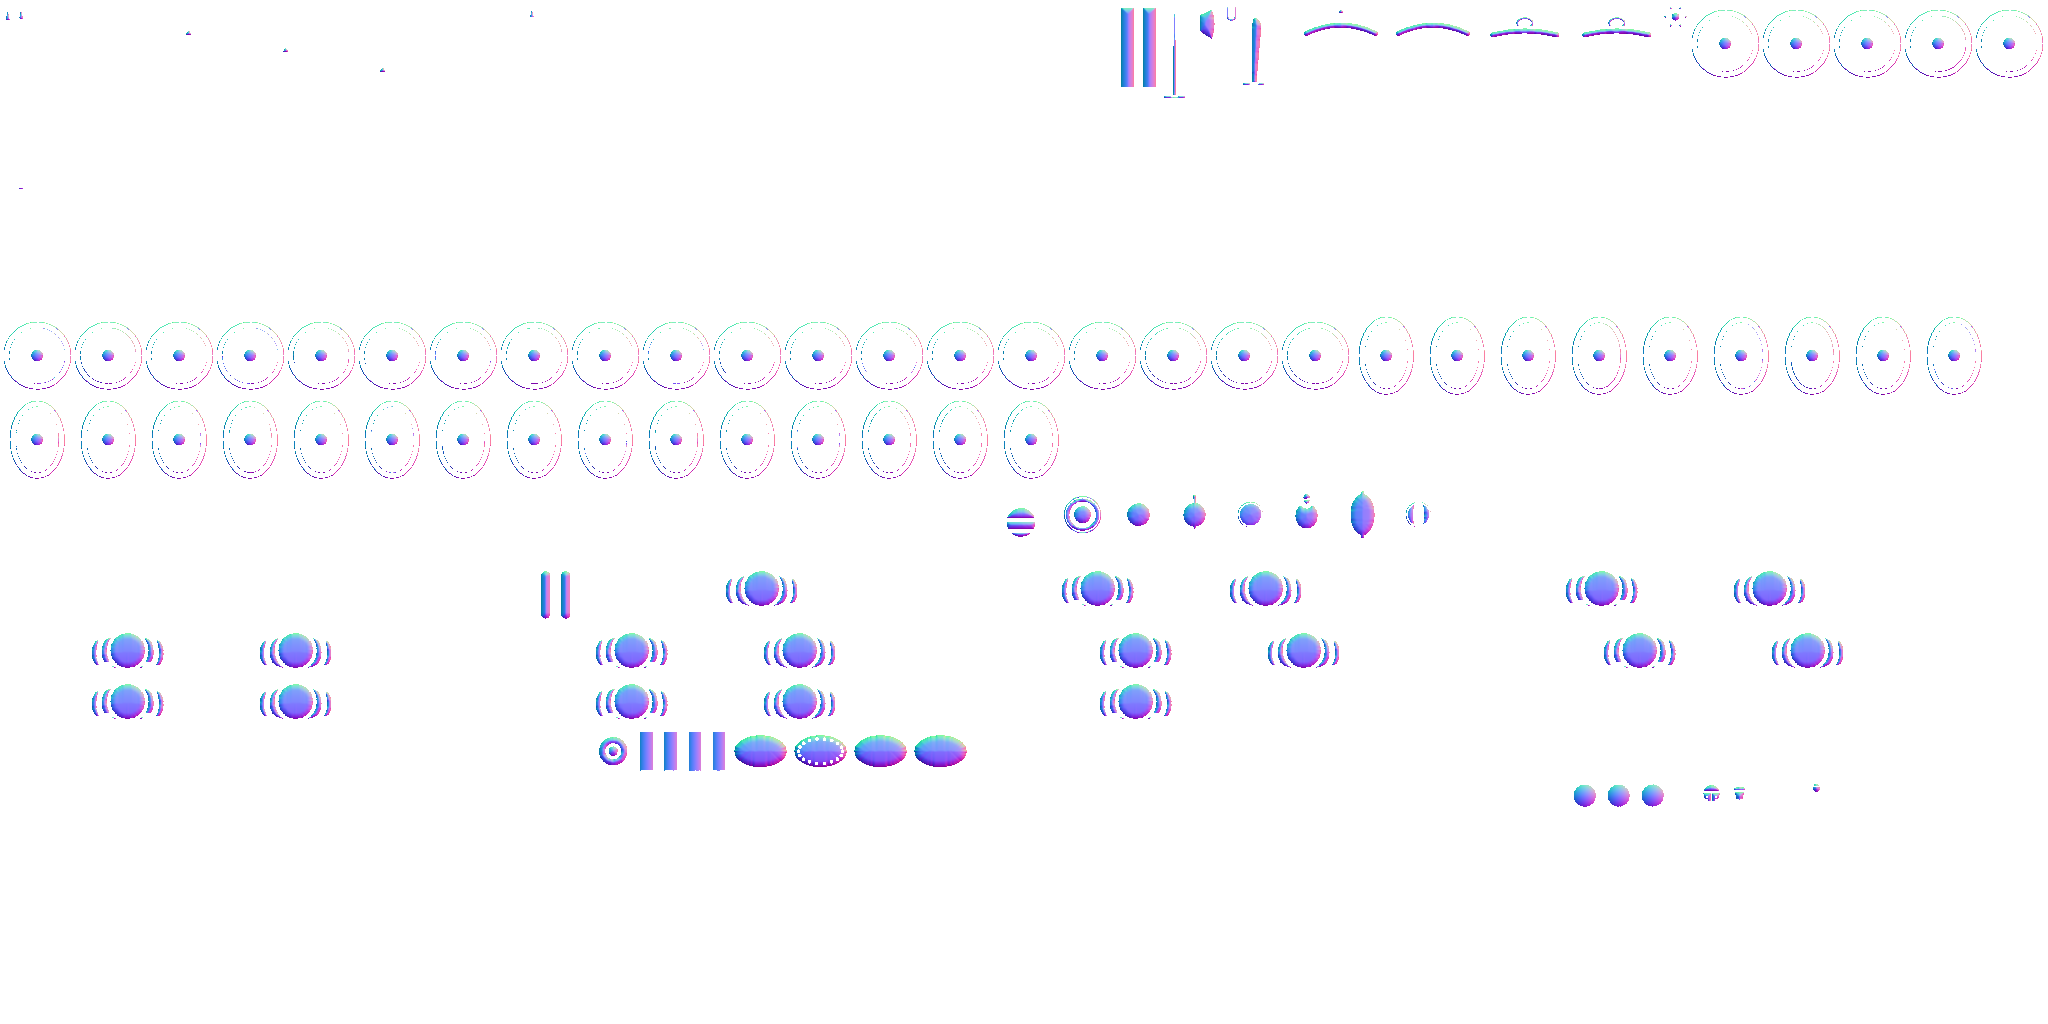
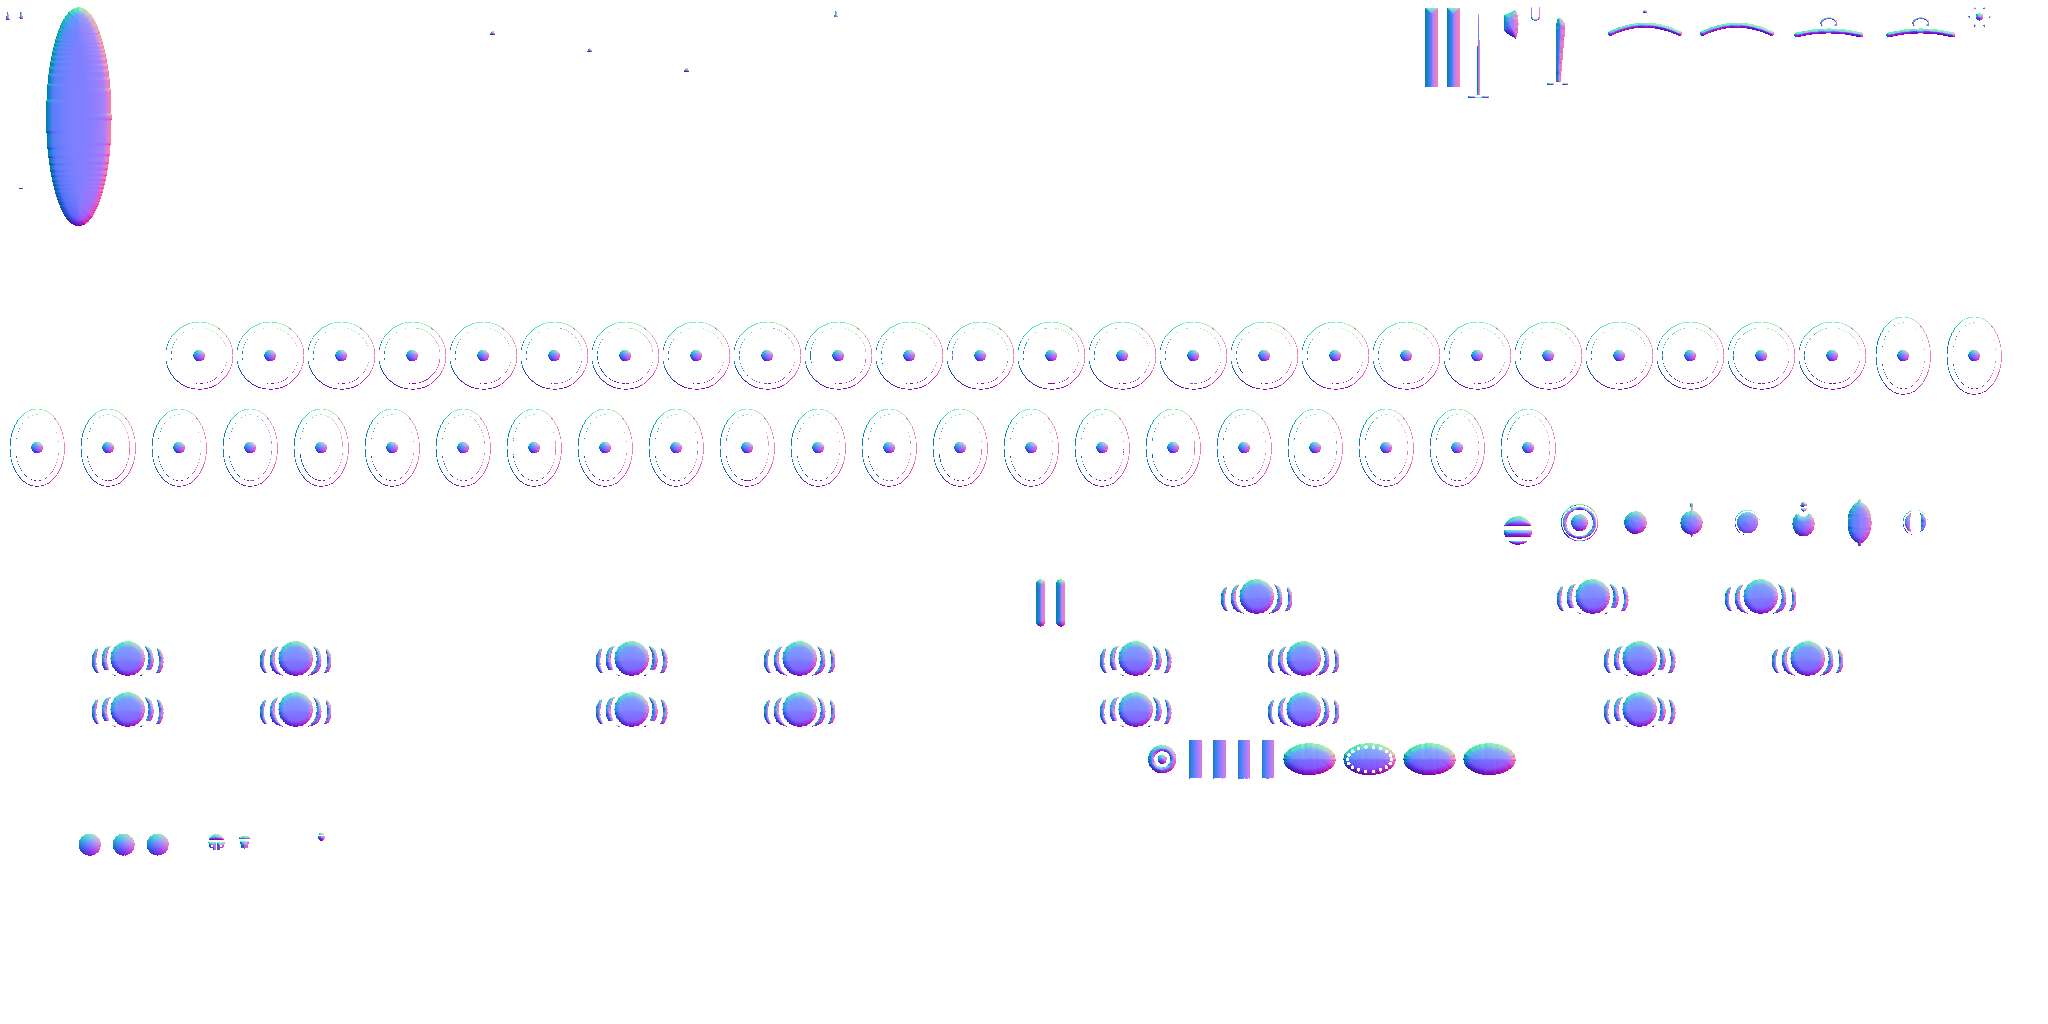
В17: конница стоймя — конь из частей, всадник в седле
- Конь (Figure.Horse): ноги — копыто, бабка, верх ноги, по походке копыта ходят вперёд-назад; туловище — срезы
  вытянутого эллипса, округлые к брюху и к спине; шея с гривой, голова кивает на ходу, уши, морда; хвост машет;
  седло с чепраком. Полная барда — попона цвета стороны с полосой герба, сукно на шее, стальной налобник.
- Всадник — та же фигурка (Figure.Build, mounted): сидит в седле (весь подъём — Zo), ноги по бокам коня, нижняя
  пола не рисуется, щит — на левом боку лицом наружу; копьё стоймя и к бою — как прежде из позы.
- Конь и всадник — одна фигурка в общем порядке «от дальних к ближним»; тень коня — вдоль туловища влево вниз.
- Атлас men: hslice/coat (масть — умножением), hslice/bard/*, saddle/none, saddle/cloth.

diff --git a/core/Tests/polygon-men.js b/core/Tests/polygon-men.js
@@ -698,6 +698,22 @@ function paintLegs2(g, col = "#ffffff"){
     g.beginPath(); g.rect(x - 0.06, -0.43, 0.12, 0.86); g.strokeStyle = INK; g.lineWidth = 0.02; g.stroke();
   }
 }
+// конь стоймя (В17): срез туловища — вытянутый эллипс 0,25 × 0,85 (вперёд — −y); coat — белый (Unity умножает на масть),
+// bard — попона цвета стороны с полосой герба вдоль хребта и каймой
+const HSL_RX = 0.25, HSL_RY = 0.85;
+function paintHSlice(g, kind, col = "#ffffff", c2 = DEVICE[0]){
+  const path = () => { g.beginPath(); g.ellipse(0, 0, HSL_RX, HSL_RY, 0, 0, 6.283); };
+  path(); g.fillStyle = vol(g, col, 0, 0, HSL_RY * 0.6, 0.6); g.fill();
+  if(kind === "bard"){ g.save(); path(); g.clip(); g.fillStyle = c2; g.fillRect(-0.05, -1, 0.1, 2); g.strokeStyle = c2; g.lineWidth = 0.04; path(); g.stroke(); g.restore(); }
+  else { path(); g.strokeStyle = shade(col, -0.3); g.lineWidth = 0.01; g.stroke(); }
+}
+// седло сверху: чепрак (цвет стороны или своё сукно у полной барды), кожаное седло с высокой лукой
+function paintSaddle(g, kind, col){
+  if(kind !== "none"){ g.beginPath(); g.rect(-0.27, -0.3, 0.54, 0.62); g.fillStyle = vol(g, col, 0, 0, 0.4, 0.6); g.fill(); edge(g, 0.025); }
+  g.beginPath(); g.ellipse(0, 0, 0.17, 0.26, 0, 0, 6.283); g.fillStyle = vol(g, "#6a4a2e", 0, -0.04, 0.26, 0.9); g.fill(); edge(g, 0.025);
+  g.beginPath(); g.ellipse(0, 0.17, 0.15, 0.06, 0, 0, 6.283); g.fillStyle = "#4e3520"; g.fill(); edge(g, 0.02);   // задняя лука
+  g.beginPath(); g.ellipse(0, -0.2, 0.1, 0.05, 0, 0, 6.283); g.fillStyle = "#4e3520"; g.fill(); edge(g, 0.02);     // передняя
+}
 // изнанка щита: доски и ремни (лицом от зрителя)
 function paintShieldBack(g, shape){
   const wood = shape === "buckler" ? STEEL : "#7a5a36";

diff --git a/core/Tests/atlas-export.js b/core/Tests/atlas-export.js
@@ -57,6 +57,11 @@
     for(const shape of ["round", "oval", "heater", "buckler"]) add("men", "shieldback/" + shape, [-0.25, -0.3, 0.25, 0.31], g => paintShieldBack(g, shape));
     add("men", "capev", [-0.26, -0.44, 0.26, 0.47], g => paintCapeV(g, KEY));
     add("men", "legs2", [-0.16, -0.45, 0.16, 0.45], g => paintLegs2(g));
+    // конь стоймя (В17): срезы туловища (масть — умножением), попона с гербом, сёдла с чепраком
+    const HSL_BOX = [-HSL_RX - 0.03, -HSL_RY - 0.03, HSL_RX + 0.03, HSL_RY + 0.03];
+    add("men", "hslice/coat", HSL_BOX, g => paintHSlice(g, "coat"));
+    C2.forEach((c2, i) => add("men", "hslice/bard/" + i, HSL_BOX, g => paintHSlice(g, "bard", KEY, c2)));
+    for(const kind of ["none", "cloth"]) add("men", "saddle/" + kind, [-0.3, -0.33, 0.3, 0.35], g => paintSaddle(g, kind, KEY));
     C2.forEach((c2, i) => add("men", "pavisev/" + i, [-0.3, -0.47, 0.3, 0.47], g => paintPaviseV(g, KEY, c2)));
     // щиты: лицом, цвет поля — сторона, второй цвет — герб
     for(const shape of ["round", "oval", "heater"])

diff --git a/game/Assets/Scripts/Viewer/Figure.cs b/game/Assets/Scripts/Viewer/Figure.cs
@@ -26,7 +26,8 @@ namespace Journal.Viewer
         public readonly ArtAtlas A;
         public readonly Part[] Cyl = new Part[4], Ball = new Part[3], Bow = new Part[5], Xbow = new Part[4], Pavise = new Part[3];
         public readonly Part[,,] Tab = new Part[6, 2, 3];
-        public Part SlCloth, SlBrig, SlMail, SlPlate, SlBelt, Boot, Cape, Legs2, FaceOpen, FaceGreat, FaceBasc;
+        public Part SlCloth, SlBrig, SlMail, SlPlate, SlBelt, Boot, Cape, Legs2, FaceOpen, FaceGreat, FaceBasc, HCoat, SaddleNone, SaddleCloth;
+        public readonly Part[] HBard = new Part[3];
         public readonly Dictionary<string, Part> Weapon = new Dictionary<string, Part>(), ShieldBack = new Dictionary<string, Part>();
         public static readonly string[] CylKinds = { "cloth", "leather", "mail", "plate" }, BallKinds = { "cloth", "mail", "steel" },
             Paints = { "plain", "halves", "quarters", "stripe", "cross", "chevron" };
@@ -40,6 +41,8 @@ namespace Journal.Viewer
             for (int p = 0; p < 6; p++) for (int b = 0; b < 2; b++) for (int c = 0; c < 3; c++) Tab[p, b, c] = a.Get($"slice/tab/{Paints[p]}/{(b == 0 ? "u" : "l")}/{c}");
             SlCloth = a.Get("slice/cloth"); SlBrig = a.Get("slice/brig"); SlMail = a.Get("slice/mail"); SlPlate = a.Get("slice/plate"); SlBelt = a.Get("slice/belt");
             Boot = a.Get("boot"); Cape = a.Get("capev"); Legs2 = a.Get("legs2");
+            HCoat = a.Get("hslice/coat"); SaddleNone = a.Get("saddle/none"); SaddleCloth = a.Get("saddle/cloth");
+            for (int i = 0; i < 3; i++) HBard[i] = a.Get("hslice/bard/" + i);
             FaceOpen = a.Get("face/open"); FaceGreat = a.Get("face/great"); FaceBasc = a.Get("face/bascinet");
             foreach (var w in new[] { "spear", "fork", "pike", "lance", "sword", "falchion", "axe", "mace", "club" }) Weapon[w] = a.Get("weapon/" + w);
             foreach (var s in new[] { "round", "oval", "heater", "buckler" }) ShieldBack[s] = a.Get("shieldback/" + s);
@@ -86,8 +89,8 @@ namespace Journal.Viewer
         static readonly float[] T1 = { 0, 0, 0, 1, 1 }, Top = { 0, 0, 0, 0.92f, 0.92f };
 
         // состояние сборки одной фигурки (без замыканий — в кадре ничего не создаётся)
-        static List<Prim> F; static float X, Y, Face, cf, sf;
-        static Vector3 W3(Vector3 p) => new Vector3(X + p.x * cf - p.y * sf, Y + p.x * sf + p.y * cf, p.z);
+        static List<Prim> F; static float X, Y, Face, cf, sf, Zo;   // Zo — подъём всей фигурки (всадник в седле, конь на скаку)
+        static Vector3 W3(Vector3 p) => new Vector3(X + p.x * cf - p.y * sf, Y + p.x * sf + p.y * cf, p.z + Zo);
         static float Dk(Vector3 P) => P.y * K + P.z;
         static void Push(in Part p, in Aff M, Color32 c, Vector4 prm, float key) { if (p.Ok) F.Add(new Prim { P = p, M = M, C = c, Prm = prm, Key = key }); }
         static void Cyl(in Part p, Vector3 a, Vector3 b, float r, Color32 col, float bias = 0)
@@ -115,17 +118,27 @@ namespace Journal.Viewer
             Push(p, Aff.At(G.x, G.y - K * G.z).R(Mathf.Atan2(px, -py)).S(1, Mathf.Sqrt(px * px + py * py)), col, prm, Dk(G) + bias);
         }
 
-        public static void Build(List<Prim> list, FigParts P, Kit k, float x, float y, float face, FigPose o, Color32 side, float tone, int detail)
+        // mounted — всадник: сидит на высоте seat (бёдра в седле), ноги по бокам коня, щит на левом боку
+        public static void Build(List<Prim> list, FigParts P, Kit k, float x, float y, float face, FigPose o, Color32 side, float tone, int detail, bool mounted = false, float seat = 0)
         {
             var fk = k.Fig as FigKit; if (fk == null) k.Fig = fk = new FigKit(k, P);
-            F = list; X = x; Y = y; Face = face; cf = Mathf.Cos(face); sf = Mathf.Sin(face);
+            F = list; X = x; Y = y; Face = face; cf = Mathf.Cos(face); sf = Mathf.Sin(face); Zo = mounted ? seat : 0;
             var keyPrm = new Vector4(fk.OwnCloth < 0 ? tone : 0, 0, 0, 0);
             Color32 cloth = fk.OwnCloth < 0 ? Toned(side, tone) : Cloths[fk.OwnCloth];
             Color32 sleeveC = fk.SleeveCyl == 1 ? Leathers[fk.Leather] : cloth, legC = Color32.Lerp(cloth, Dark, 0.55f);
             Part sleeveCyl = P.Cyl[fk.SleeveCyl], legCyl = P.Cyl[fk.LegCyl];
 
-            // ноги: издали — пара ног одной частью (стоймя, к зрителю); иначе ступни, сапоги, голени, колени, бёдра; на ходу — шаг
-            if (detail == 0 && P.Legs2.Ok) Vert(new Vector3(0, 0, 0.45f), cf, -sf, P.Legs2, legC, Tint, 1, -0.2f);   // u — вдоль экрана при любом курсе
+            // ноги: у всадника — по бокам коня, носок в стремени; издали — пара ног одной частью (стоймя, к зрителю); иначе ступни,
+            // сапоги, голени, колени, бёдра; на ходу — шаг
+            if (mounted)
+                for (int s = -1; s <= 1; s += 2)
+                {
+                    var hip = new Vector3(s * 0.12f, 0.05f, 0.86f); var knee = new Vector3(s * 0.29f, -0.12f, 0.62f); var ank = new Vector3(s * 0.28f, 0.02f, 0.26f);
+                    Cyl(legCyl, hip, knee, 0.07f, legC);
+                    if (detail > 0) Cyl(legCyl, knee, ank, 0.058f, legC);
+                    if (detail == 2) Ball(P.Ball[0], ank, 0.06f, BootC);
+                }
+            else if (detail == 0 && P.Legs2.Ok) Vert(new Vector3(0, 0, 0.45f), cf, -sf, P.Legs2, legC, Tint, 1, -0.2f);   // u — вдоль экрана при любом курсе
             else
                 for (int s = -1; s <= 1; s += 2)
                 {
@@ -140,7 +153,7 @@ namespace Journal.Viewer
                     Cyl(legCyl, knee, hip, 0.07f, legC);
                 }
             // корпус: срезы от низа полы (у сюрко длиннее) до плеч, пояс; сверху — плечи вида сверху и сюрко
-            float z0 = fk.Tab ? 0.62f : 0.76f, dz = detail == 2 ? 0.055f : detail == 1 ? 0.12f : 0.3f;
+            float z0 = mounted ? 0.8f : fk.Tab ? 0.62f : 0.76f, dz = detail == 2 ? 0.055f : detail == 1 ? 0.12f : 0.3f;
             for (float z = z0; z <= 1.385f; z += dz)
             {
                 float w = z < 0.95f ? 0.17f + (0.95f - z) * 0.12f : z < 1.2f ? 0.165f + (z - 0.95f) * 0.14f : 0.2f + (z - 1.2f) * 0.06f, d = w * 0.6f;
@@ -202,13 +215,56 @@ namespace Journal.Viewer
                 if (o.Raise) Flat(1.95f, new[] { sh[0], sh[1], sh[2], 1, 1 }, fk.Shield, side, Vector4.zero, 0.5f);
                 else if (H3l != null)
                 {
-                    float ux = Mathf.Cos(sh[2]), uy = Mathf.Sin(sh[2]), nx = Mathf.Sin(sh[2]), ny0 = -Mathf.Cos(sh[2]);
+                    float sr = mounted ? -Mathf.PI / 2 : sh[2];   // всадник: щит вдоль коня, лицом влево
+                    float ux = Mathf.Cos(sr), uy = Mathf.Sin(sr), nx = Mathf.Sin(sr), ny0 = -Mathf.Cos(sr);
                     float ny = nx * sf + ny0 * cf;   // нормаль в осях карты: к зрителю — y > 0
                     var c = H3l.Value + new Vector3(nx * 0.05f, ny0 * 0.05f, 0.02f);
                     Vert(c, ux, uy, ny > 0 ? fk.Shield : fk.ShieldBack, side, Vector4.zero, Mathf.Abs(sh[3]), 0.06f);
                 }
             }
-            F = null;
+            F = null; Zo = 0;
+        }
+
+        // ── конь стоймя (В17): ноги (копыта по походке — вперёд-назад), туловище срезами, шея с гривой, голова, уши, хвост,
+        // седло с чепраком; у полной барды — попона с гербом, сукно на шее, стальной налобник ──
+        static readonly Color32[] Coats = Hexes("#e4dfd3", "#3b332d", "#7b4b2c", "#985c30", "#8f8a84", "#b9955f", "#5a3a26");
+        static readonly Color32 HoofC = Hex("#2a2420"), HairInk = Hex("#2b2621");
+        static readonly float[,] HLegs = { { -0.14f, -0.5f }, { 0.14f, -0.5f }, { -0.14f, 0.62f }, { 0.14f, 0.62f } };   // ЛП, ПП, ЛЗ, ПЗ
+        public static void Horse(List<Prim> list, FigParts P, Kit k, float x, float y, float face, float[] legOff, float nod, float tail, float bob, Color32 side, int detail)
+        {
+            F = list; X = x; Y = y; Face = face; cf = Mathf.Cos(face); sf = Mathf.Sin(face); Zo = bob;
+            Color32 coat = Coats[k.Coat], dark = Color32.Lerp(coat, HoofC, 0.45f), hair = Color32.Lerp(coat, HairInk, 0.65f);
+            bool full = k.Bard == "full", cloth = k.Bard == "cloth";
+            for (int i = 0; i < 4; i++)
+            {
+                float lx = HLegs[i, 0], ly = HLegs[i, 1], off = legOff != null ? legOff[i] : 0;
+                var hoof = new Vector3(lx, ly + off, 0.05f - bob); var top = new Vector3(lx, ly, 1.02f);
+                if (detail == 0) { Cyl(P.Cyl[0], hoof, top, 0.065f, coat); continue; }
+                var knee = new Vector3(lx, ly + off * 0.6f, 0.5f - bob * 0.5f);
+                if (detail == 2) Ball(P.Ball[0], hoof, 0.052f, HoofC);
+                Cyl(P.Cyl[0], hoof, knee, 0.042f, dark);
+                Cyl(P.Cyl[0], knee, top, 0.072f, coat);
+            }
+            // туловище: срезы от брюха до спины — округлые к низу и к верху
+            float dz = detail == 2 ? 0.07f : detail == 1 ? 0.13f : 0.26f;
+            for (float z = 0.95f; z <= 1.475f; z += dz)
+            {
+                float t = (z - 0.95f) / 0.52f, bulge = Mathf.Sin(Mathf.PI * Mathf.Clamp01(t * 0.9f + 0.1f));
+                float rx = 0.19f + 0.08f * bulge, ry = 0.7f + 0.15f * bulge;
+                var T = new[] { 0, 0.1f, 0, rx / 0.25f, ry / 0.85f };
+                if (full) Flat(z, T, P.HBard[k.C2], side, Vector4.zero); else Flat(z, T, P.HCoat, coat, Tint);
+            }
+            Flat(1.49f, T1, cloth || full ? P.SaddleCloth : P.SaddleNone, side, Vector4.zero, 0.02f);
+            // шея и грива, голова (кивает на ходу), уши, морда; хвост машет
+            if (!full && detail > 0) Cyl(P.Cyl[0], new Vector3(0, -0.4f, 1.52f), new Vector3(0, -0.84f, 1.92f + nod), 0.05f, hair, 0.02f);
+            if (full) Cyl(P.Cyl[0], new Vector3(0, -0.48f, 1.3f), new Vector3(0, -0.82f, 1.78f + nod), 0.145f, Toned(side, -0.1f));
+            else Cyl(P.Cyl[0], new Vector3(0, -0.48f, 1.3f), new Vector3(0, -0.82f, 1.78f + nod), 0.14f, coat);
+            Cyl(P.Cyl[full ? 3 : 0], new Vector3(0, -0.86f, 1.86f + nod), new Vector3(0, -1.24f, 1.58f + nod), 0.1f, full ? White : coat);
+            Ball(P.Ball[0], new Vector3(0, -1.27f, 1.55f + nod), 0.085f, dark);
+            if (detail == 2)
+                for (int s = -1; s <= 1; s += 2) Cyl(P.Cyl[0], new Vector3(s * 0.045f, -0.86f, 1.92f + nod), new Vector3(s * 0.055f, -0.83f, 2.05f + nod), 0.025f, coat, 0.03f);
+            Cyl(P.Cyl[0], new Vector3(0, 0.92f, 1.38f), new Vector3(Mathf.Sin(tail) * 0.25f, 1.14f, 0.78f), 0.055f, hair, -0.02f);
+            F = null; Zo = 0;
         }
     }
 }

diff --git a/game/Assets/Scripts/Viewer/MenView.cs b/game/Assets/Scripts/Viewer/MenView.cs
@@ -479,8 +479,7 @@ namespace Journal.Viewer
                 {
                     if (!m.Vis) continue;
                     if (!horse) { menB.Quad(soft, Aff.At(m.X - 0.34f, m.Y + 0.24f).R(0.93f).S(0.62f, 1.15f), shadow, new Vector4(0, 0, 1, 0)); continue; }   // В17: тень стоящего
-                    var sm = Aff.At(m.X - 0.6f * so, m.Y + 0.8f * so).R(m.Face);
-                    horseB.Quad(soft, sm.T(0, 0.12f).S(0.66f, 2.0f), shadow, new Vector4(0, 0, 1, 0));
+                    menB.Quad(soft, Aff.At(m.X - 0.55f, m.Y + 0.4f).R(m.Face).S(0.95f, 2.4f), shadow, new Vector4(0, 0, 1, 0));   // В17: конь стоймя
                 }
             }
             for (int i = 0; i < M.Count; i++)
@@ -558,22 +557,15 @@ namespace Journal.Viewer
             {
                 bool run = walking || m.Atk;
                 HorsePose(m.Sp, m.Ph, t, s, out var nod, out var tail, out var bob);
-                var leg = horses.Get("hrig/leg/" + kit.Coat);
-                for (int i = 0; i < 4; i++) horseB.Quad(leg, bas.T(HLeg[i, 0], HLeg[i, 1] + legs[i]), col, neutral);
-                horseB.Quad(horses.Get("hrig/tail/" + kit.Coat), bas.T(0, 0.84f).R(tail), col, neutral);
-                horseB.Quad(horses.Get("hrig/body/" + kit.Coat), bas, col, neutral);
-                horseB.Quad(horses.Get("hrig/head/" + kit.Coat + (kit.Bard == "full" ? "/full" : "")), bas.T(0, -0.5f + nod), col, neutral);
-                horseB.Quad(horses.Get(kit.Bard == "full" ? "hrig/cover/full/" + kit.C2 : "hrig/cover/" + (kit.Bard == "cloth" ? "cloth" : "none")), bas, col, neutral);
-                var Mr = bas.T(ox, 0.02f + bob).R(rot * 0.35f);
+                var Mr = bas.T(ox, 0.02f).R(rot * 0.35f);
                 var W = PW;
                 if (kit.Weapon == "lance") { if (run) W = new[] { 0.2f, 0.25f + (m.Atk ? ThrustOff(ap) : 0), -0.04f, 1, 1 }; }
                 else if (m.Atk) { var (r2, sy2) = SwingAng(ap); W = new[] { 0.22f, -0.08f, r2, 1, sy2 }; }
-                var (rr, rl, rShowL) = HandsOf(kit.Weapon, W, PSh);
-                Arms(kit, Mr, rr, rl, col, prm);
-                BodyHead(kit, Mr, col, prm);
-                if (PSh != null) menB.Quad(men.Get(kit.Shield), Pose(Mr, PSh), col, neutral);
-                if (W != null) menB.Quad(men.Get("weapon/" + kit.Weapon), Pose(Mr, W), col, neutral);
-                Hands(kit, Mr, rr, rShowL ? rl : null, col);
+                // В17: конь стоймя и всадник в седле — одна фигурка
+                int hs = prims.Count;
+                Figure.Horse(prims, figParts, kit, m.X, m.Y, m.Face, legs, nod, tail, bob, col, detail);
+                Figure.Build(prims, figParts, kit, Mr.e, Mr.f, m.Face + rot * 0.35f, new FigPose { Weapon = kit.Weapon, W = W, Sh = PSh, Step = 0 }, col, kit.Tone, detail, true, 0.69f + bob);
+                figs.Add((m.Y, hs, prims.Count - hs));
                 if (m.Atk && ap >= 0.42f && ap < 0.5f) sparks.Add((m.X, m.Y, m.Face, kit.Weapon == "lance" ? -2.6f : -0.9f, ap));
                 return;
             }
